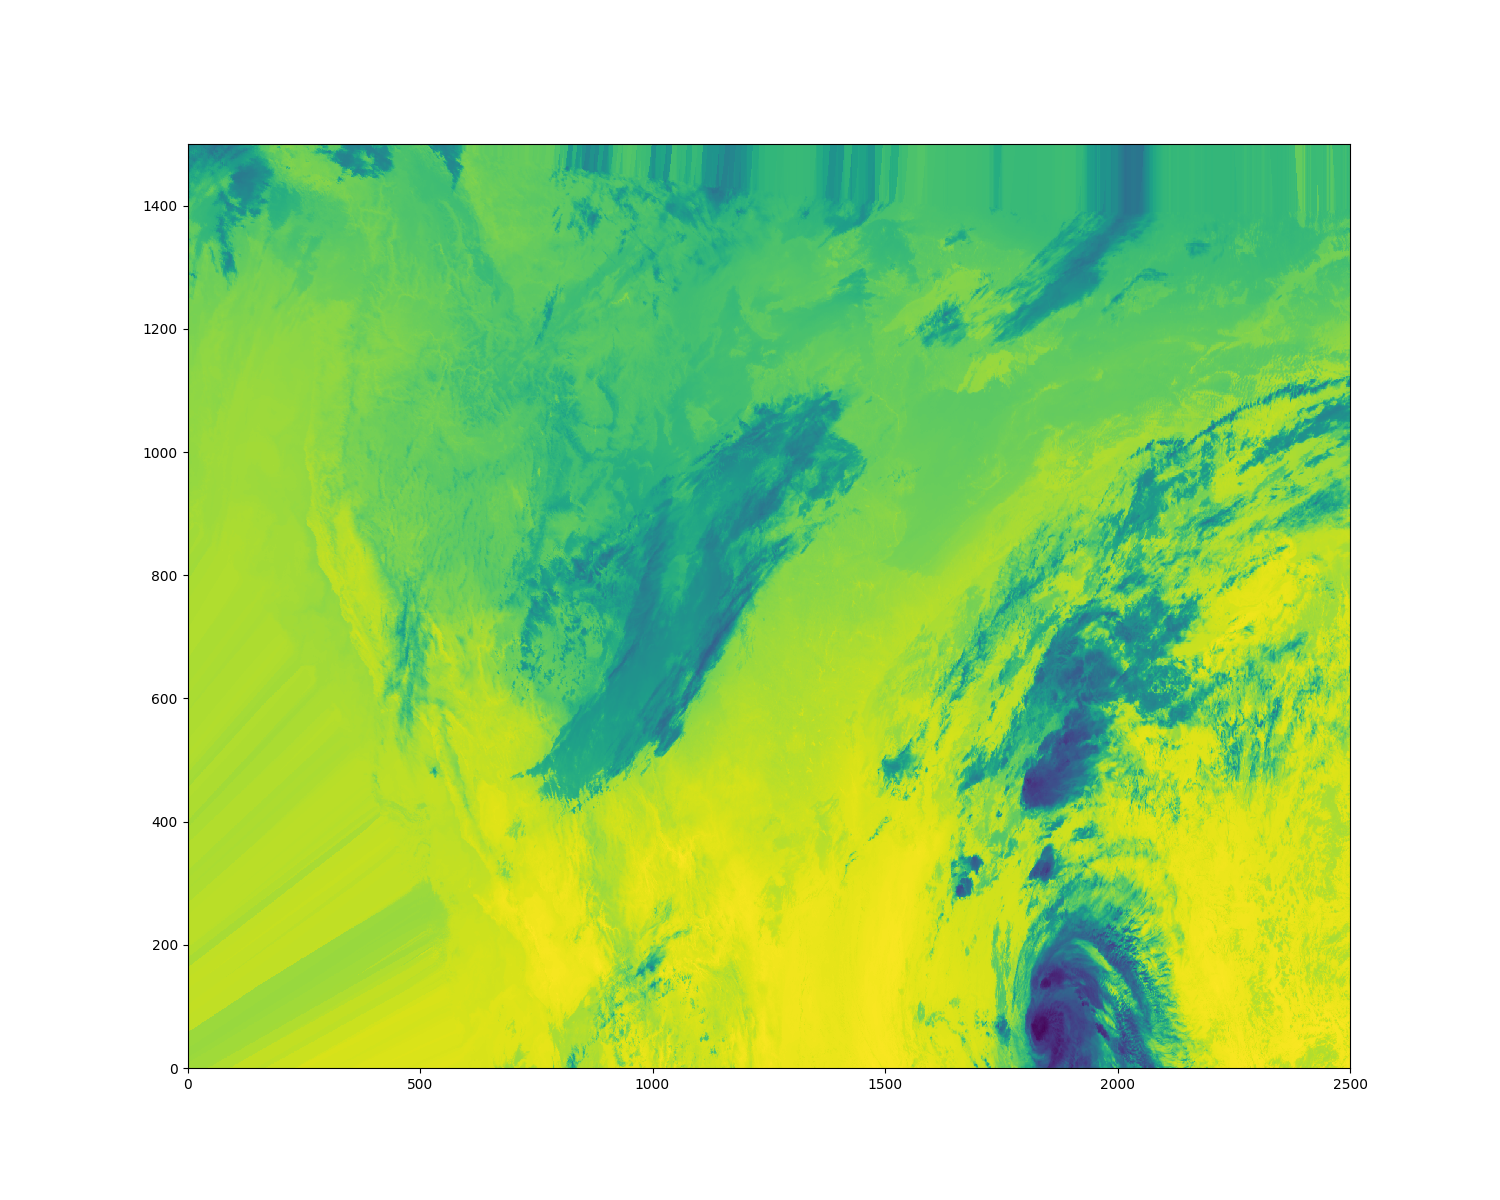
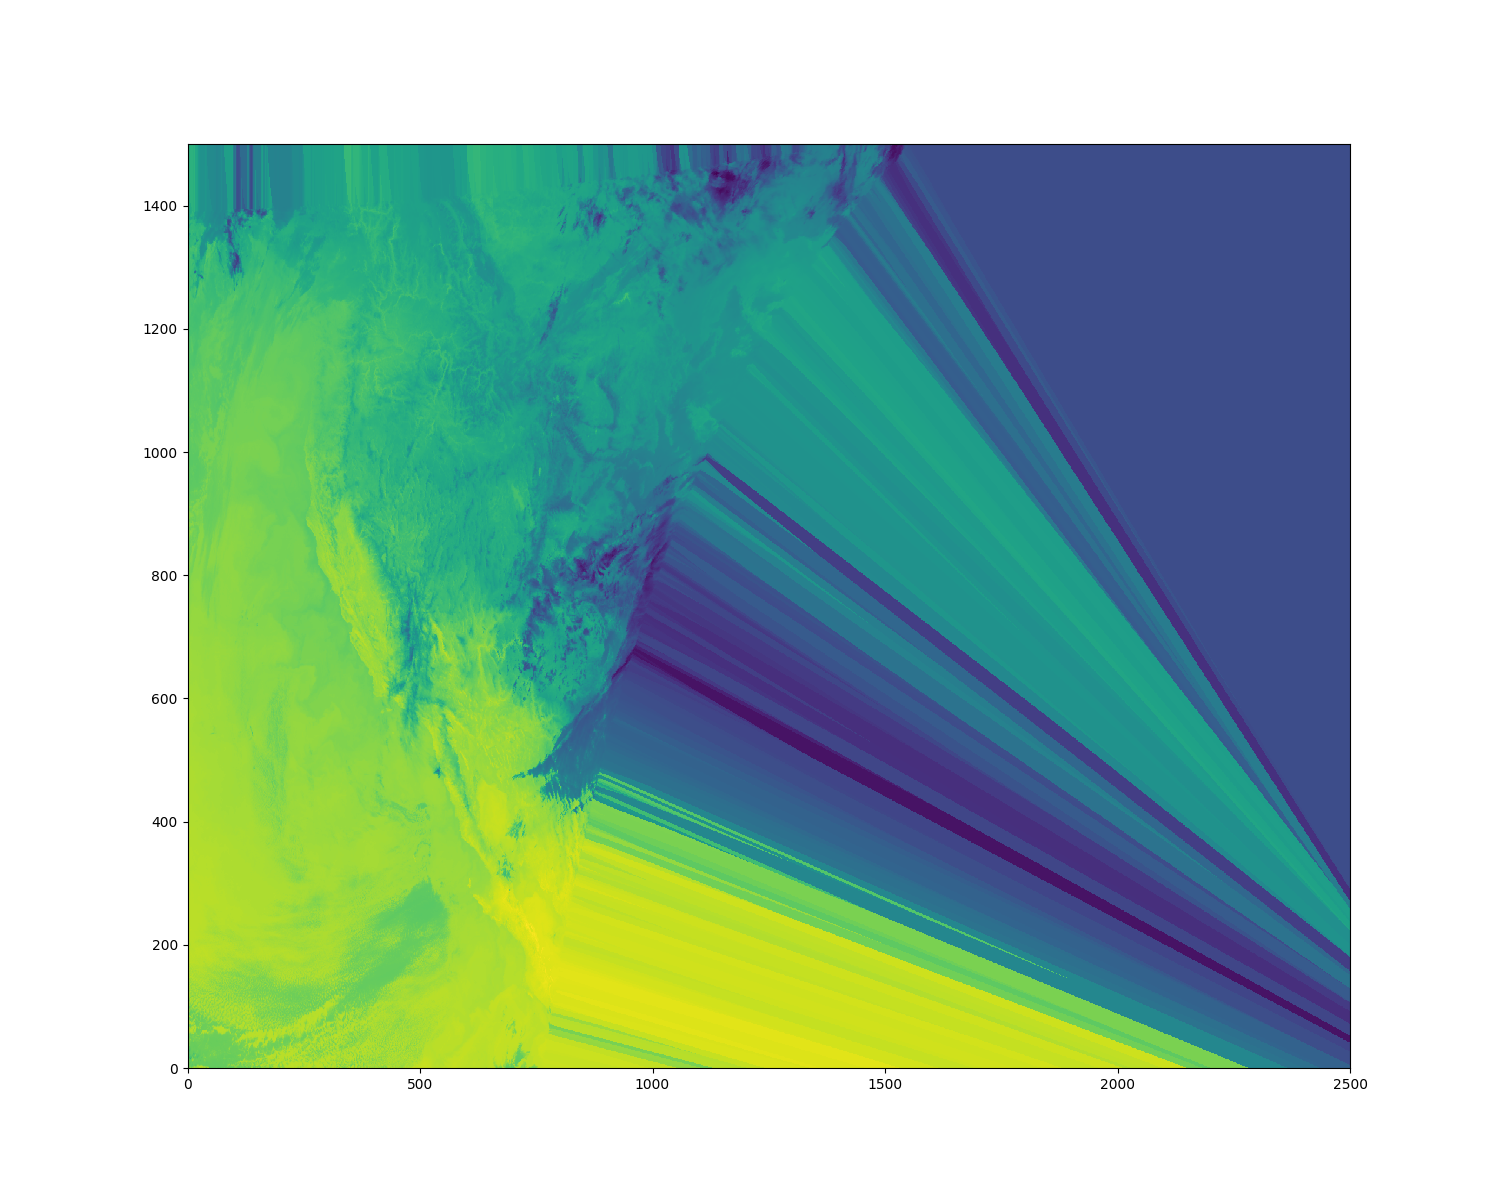
Updated Docker for Dev usage

diff --git a/src/satellite/__init__.py b/src/satellite/__init__.py
@@ -12,7 +12,7 @@ def fetch(timestamp: dt.datetime, satellite: GOES) -> Dataset:
 def fetch_band(data: Dataset, band: int) -> DataArray:
     return data[f"CMI_C{band:02d}"].data
 
-
+# Code pulled from the NOAA Documentation for the AWS Bucket
 def calculate_coordinates(data: Dataset) -> tuple[npt.ArrayLike, npt.ArrayLike]:
     # Read in GOES ABI fixed grid projection variables and constants
     x_coordinate_1d = data.variables["x"][:]  # E/W scanning angle in radians
@@ -68,7 +68,6 @@ def project(
     temp: npt.ArrayLike | npt.DTypeLike,
 ) -> npt.ArrayLike | npt.DTypeLike:
     from consts import MAP_RANGE, GRID_RANGE
-    from scipy.ndimage import distance_transform_edt
     from utils.convert import convert_coord as convert
 
     # Create coordinate mask
@@ -87,7 +86,10 @@ def project(
     data = np.zeros((GRID_RANGE["LAT"], GRID_RANGE["LON"]))
     data[rows, cols] = temps
 
-    # Apply smoothing
+    return data
+
+def smooth(data: npt.ArrayLike | npt.DTypeLike) -> npt.ArrayLike | npt.DTypeLike:
+    from scipy.ndimage import distance_transform_edt
     empty_mask = data <= 0
     filled_data = data.copy()
     indices = distance_transform_edt(
@@ -96,3 +98,6 @@ def project(
     filled_data[empty_mask] = data[tuple(indices[:, empty_mask])]
 
     return filled_data
+
+def union_sat_data(west: npt.ArrayLike | npt.DTypeLike, east: npt.ArrayLike | npt.DTypeLike) -> npt.ArrayLike | npt.DTypeLike:
+    pass

diff --git a/src/main.py b/src/main.py
@@ -26,12 +26,13 @@ grids = pd.DataFrame(
 )
 
 sat_east = GOES(satellite=16, product="ABI", domain="C")
+sat_west = GOES(satellite=18, product="ABI", domain="C")
 band = 14
 
-data = st.fetch(dt.datetime(2024, 11, 6, 23, 59), sat_east)
+data = st.fetch(dt.datetime(2024, 11, 6, 23, 59), sat_west)
 band_data = st.fetch_band(data, band)
 lats, lons = st.calculate_coordinates(data)
-projected_data = st.project(lats, lons, band_data)
+projected_data = st.smooth(st.project(lats, lons, band_data))
 
 fig = plt.figure(figsize=(15, 12))
 ax_east = fig.add_subplot(1, 1, 1)

diff --git a/README.md b/README.md
@@ -3,10 +3,11 @@
 In order to launch the container for our code, you first download [Docker Desktop] (https://www.docker.com/products/docker-desktop/)
 for your OS. Docker will prompt you to create an account. Unless you intend to push or make new images, for the purposes of our application, you do not need an account as we are already hosting our container on Docker Hub.
 
-To build our image from the top level of the GitHub Repository (aka skyblue) do this command
-`docker build -t skyblue:latest .`
+To build our image from the top level of the GitHub Repository (aka skyblue) do this command Powershell if you are not a Mac user.
+`docker build -t skyblue_dev:latest .`
 
-To run the container, do this command from a Linux shell: `docker run -v ${PWD}"/src/plots":/app/src/plots skyblue:latest`
+To run the container, do this command: `docker run -it --rm -v ${PWD}:/skyblue/ skyblue_dev:latest`
+The above command needs to be run from the skyblue directory on your computer and will sync the container files with local ones
 
 Note: whenever you make any change to the codebase and want to run the container, you will need to rebuild the image
 first before you will be able to test your changes.
